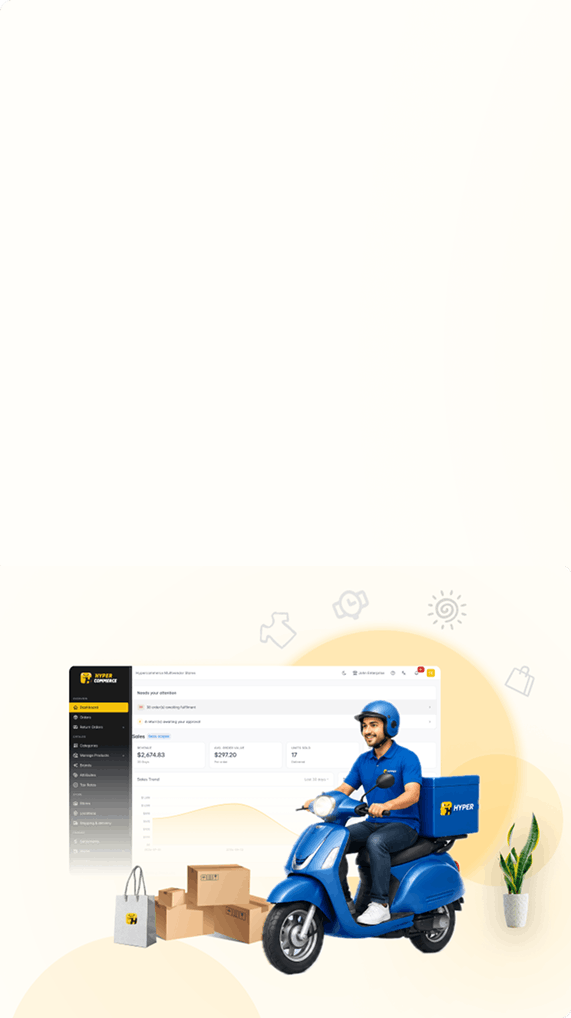
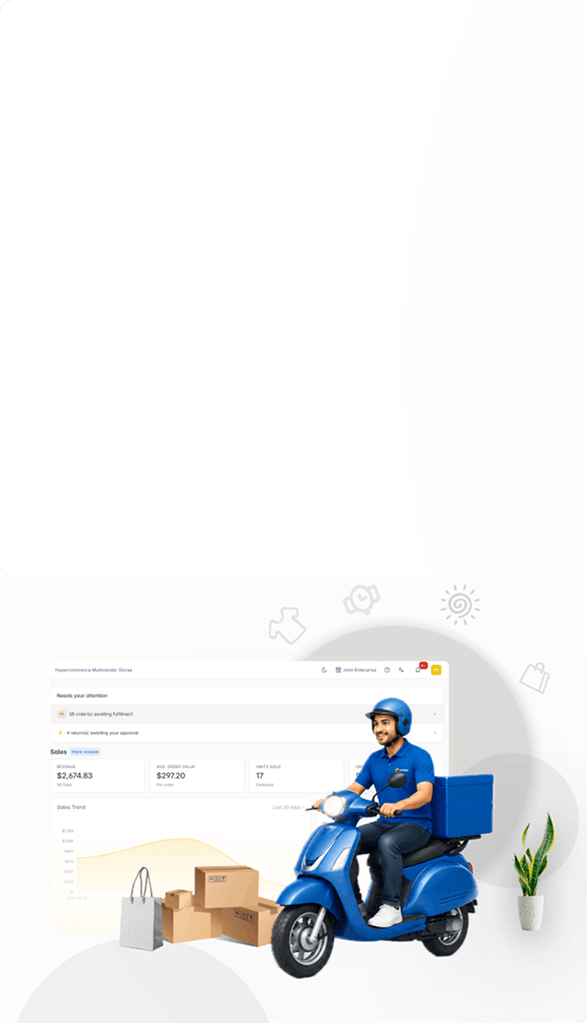
landing page design changed

Changed region(s): [[0.0893, 0.5786, 1.0, 0.9745], [0.3573, 0.7308, 0.4466, 0.7613], [0.5061, 0.7308, 0.5359, 0.7613]]

diff --git a/src/components/Seller/SellerSteps.tsx b/src/components/Seller/SellerSteps.tsx
@@ -22,9 +22,9 @@ interface Step {
 
 // One frame per step — point these at the per-step art when it lands.
 const STEP_IMAGES = [
-  "/seller-landing/simple-steps.png",
-  "/seller-landing/simple-steps.png",
-  "/seller-landing/simple-steps.png",
+  "/seller-landing/simple-step1.png",
+  "/seller-landing/simple-step2.png",
+  "/seller-landing/simple-step3.png",
 ];
 
 export default function SellerSteps() {
@@ -84,7 +84,7 @@ export default function SellerSteps() {
   });
 
   const heading = (
-    <Reveal className="text-center mb-8">
+    <Reveal className="text-center mb-6">
       <h2 className="text-2xl md:text-3xl font-bold mb-2">
         {t("pages.enhancedSellerMarketing.how.titleMain")}{" "}
         <span className="text-primary">
@@ -153,7 +153,7 @@ export default function SellerSteps() {
           {heading}
 
           <div className="grid md:grid-cols-2 gap-8 lg:gap-12 items-stretch">
-            <div className="relative h-full min-h-96 overflow-hidden rounded-large">
+            <div className="relative h-[62vh] min-h-96 max-h-[600px] overflow-hidden rounded-large">
               <AnimatePresence mode="wait" initial={false}>
                 <motion.div
                   key={active}
@@ -179,9 +179,9 @@ export default function SellerSteps() {
               </AnimatePresence>
             </div>
 
-            <div className="flex gap-5 self-center">
+            <div className="flex items-center gap-5 self-center">
               {/* Progress rail */}
-              <ol className="flex flex-col items-center gap-2 pt-2">
+              <ol className="flex flex-col items-center gap-2">
                 {steps.map((item, idx) => (
                   <li key={idx} className="flex flex-col items-center gap-2">
                     <span

diff --git a/src/pages/seller-register/index.tsx b/src/pages/seller-register/index.tsx
@@ -2,7 +2,6 @@ import MyBreadcrumbs from "@/components/custom/MyBreadcrumbs";
 import { useTranslation } from "react-i18next";
 import { useRouter } from "next/router";
 import { useEffect } from "react";
-import PageHeader from "@/components/custom/PageHeader";
 import { getSettings } from "@/routes/api";
 import { isSSR } from "@/helpers/getters";
 import { getMarketFromContext } from "@/helpers/functionalHelpers";
@@ -17,7 +16,7 @@ import SellerTestimonials from "@/components/Seller/SellerTestimonials";
 
 export default function SellerRegistration() {
   const { t } = useTranslation();
-  const { webSettings, isSingleVendor } = useSettings();
+  const { isSingleVendor } = useSettings();
   const router = useRouter();
 
   useEffect(() => {
@@ -42,14 +41,6 @@ export default function SellerRegistration() {
           ]}
         />
 
-        <PageHeader
-          title={t("pages.sellerRegister.pageTitle")}
-          subtitle={t("pages.sellerRegister.pageSubtitle")}
-          highlightText={webSettings?.siteName || ""}
-        />
-
-        {/* Marketing content comes first */}
-        {/* <SellerMarketingContent /> */}
         <EnhancedSellerMarketing />
 
         <SellerSteps />

diff --git a/src/components/Seller/EnhancedSellerMarketing.tsx b/src/components/Seller/EnhancedSellerMarketing.tsx
@@ -62,7 +62,7 @@ export default function EnhancedSellerMarketing() {
 
           <div className="relative grid md:grid-cols-2 gap-8 items-center">
             <Reveal className="space-y-5">
-              <div className="inline-flex items-center gap-2 bg-primary-50 border border-primary-200 px-3.5 py-2 text-primary-700 rounded-full text-xs font-semibold">
+              <div className="inline-flex items-center gap-2 bg-primary-50/70 px-3.5 py-2 text-primary rounded-full text-xs font-semibold">
                 <TrendingUp className="w-3.5 h-3.5 text-primary" />
                 {t("pages.enhancedSellerMarketing.hero.badge")}
               </div>

diff --git a/src/components/Seller/SellerTestimonials.tsx b/src/components/Seller/SellerTestimonials.tsx
@@ -45,7 +45,7 @@ export default function SellerTestimonials() {
   ];
 
   return (
-    <div className="relative w-full px-4 overflow-hidden">
+    <div className="relative w-full px-4 overflow-hidden mb-4">
       <Quote
         className="absolute -top-4 start-4 w-40 h-40 text-primary-200 -scale-x-100 pointer-events-none"
         strokeWidth={1}
